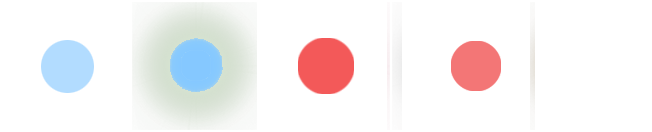
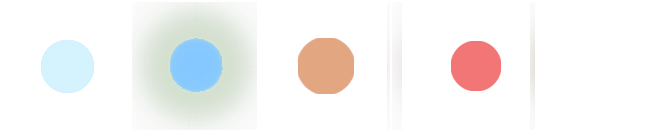
added

Changed region(s): [[0.4601, 0.2727, 0.5521, 0.7273], [0.0613, 0.303, 0.1534, 0.697]]

diff --git a/public/game.js b/public/game.js
@@ -2,7 +2,7 @@
     const config = {
         type: Phaser.WEBGL,
         width: 1020,
-        height: 600,
+        height: 980,
         parent: 'phaser-example',
         backgroundColor: '#1c1917',
         dom: {
@@ -35,6 +35,12 @@
 
         let graphics;
         const curves = [];
+
+        const chosenColors = [];
+
+        let treeTopRed;
+        let treeTopBlue;
+        let sliderValueTop = 5;
         
         function preload() {
             this.load.atlas('flares', 'assets/particles/flares.png', 'assets/particles/flares.json');
@@ -47,43 +53,69 @@
             socket = io();
 
             const posX = 30;
-            const min = -50;
-            const max = 50;
+            const min = -40;
+            const max = 40;
 
             const colors = ['blue', 'red'];
 
             for (let i = 0; i < 20; i++) {
-                //console.log(Phaser.Math.Between(min, max));
                 curves.push(new Phaser.Curves.Spline([ 
-                    60+posX*i + Phaser.Math.Between(min, max), 571, 
-                    100+posX*i+ Phaser.Math.Between(min, max), 410 + Phaser.Math.Between(min, max),
-                    100+posX*i + Phaser.Math.Between(min, max), 255 + Phaser.Math.Between(min, max), 
-                    104+posX*i + Phaser.Math.Between(min, max), 126 + Phaser.Math.Between(min, max), 
-                    101+posX*i, 31]));
+                    100+posX*i + Phaser.Math.Between(min, max), 941, 
+                    100+posX*i+ Phaser.Math.Between(min, max), 821 + Phaser.Math.Between(min, max),
+                    100+posX*i + Phaser.Math.Between(min, max), 719 + Phaser.Math.Between(min, max), 
+                    100+posX*i + Phaser.Math.Between(min, max), 641 + Phaser.Math.Between(min, max), 
+                    100+posX*i, 536])
+                    );
             }
-
-            //const topCurve = [new Phaser.Curves.Spline([ 303, 213+posX*1, 173, 143+posX*1, 53])];
-
 
             const particles = this.add.particles('flares');
             for (let i = 0; i < curves.length; i++) {
+                const thisColor = colors[Phaser.Math.Between(0, 1)];
                 emitters.push(particles.createEmitter({
-                    frame: { frames:[colors[Phaser.Math.Between(0, 1)]], cycle: true },
+                    frame: { frames:[thisColor], cycle: true },
                     scale: .1 ,
                     lifespan: 2000,
                     blendMode: 'NORMAL',
                     emitZone: { type: 'edge', source: curves[i], quantity: 350 },
                     alpha: 1
                 }));
+                chosenColors.push(thisColor);
             }
 
             emitters.forEach(emitter=> {
                 emitter.stop();
             });
 
+            const shape1 = new Phaser.Geom.Rectangle(-350, -250, 900, 450);
+
+            treeTopRed = particles.createEmitter({
+                frame: { frames:[colors[1]], cycle: false },
+                x: 400, y: 300,
+                lifespan: 4000,
+                quantity: 1,
+                scale: 0.2,
+                alpha: { start: 0, end: 1 },
+                blendMode: 'NORMAL',
+                emitZone: { type: 'random', source: shape1 }
+            });
+            treeTopBlue = particles.createEmitter({
+                frame: { frames:[colors[0]], cycle: false },
+                x: 400, y: 300,
+                lifespan: 4000,
+                quantity: 1,
+                scale: 0.2,
+                alpha: { start: 0, end: 1 },
+                blendMode: 'NORMAL',
+                emitZone: { type: 'random', source: shape1 }
+            });
+
+            treeTopRed.stop();
+            treeTopBlue.stop();
+
             // event listeners
             let slider =  document.querySelector(`.slider`);
             slider.addEventListener('change', handleChangeSlider);
+            document.querySelector(`.sliderTop`).addEventListener('change', handleChangeSliderTop);
             document.querySelector(`.start`).addEventListener('click', handleClickButton);
             document.querySelector(`.start-forever`).addEventListener('click', handleClickButtonForever);
         }
@@ -93,6 +125,12 @@
             emitters.forEach(emitter => {
                 emitter.lifespan.propertyValue = sliderValue;
             });
+        }
+
+        function handleChangeSliderTop(e) {
+            console.log(e.target.value);
+            sliderValueTop = e.target.value;
+            treeTopBlue.quantity.propertyValue = sliderValueTop;
         }
 
         function handleClickButton() {
@@ -115,18 +153,31 @@
                 if (emitter.lifespan.propertyValue <= 0) {
                     emitter.stop();
                 } else {
-                    //console.log( parseFloat(`.${life}`));
                     if(life >= 10) {
-                        emitter.alpha.propertyValue = .5* parseFloat(`.${life}`); //lifeSpanProcent * parseFloat(`.${life}`);
+                        emitter.alpha.propertyValue = .5* parseFloat(`.${life}`);
                     } else {
-                        emitter.alpha.propertyValue = .5* parseFloat(`.0${life}`); //lifeSpanProcent * parseFloat(`.${life}`);
+                        emitter.alpha.propertyValue = .5* parseFloat(`.0${life}`);
                     }
                 }
             });
+
+            const quantityEmitter = treeTopBlue.quantity.propertyValue;
+            if (life <= 0) {
+                treeTopBlue.stop();
+            } else {
+                if(life >= 80 && life < 90) {
+                    treeTopBlue.quantity.propertyValue = sliderValueTop * .75;
+                } else if (life < 50 && life > 10) {
+                    treeTopBlue.quantity.propertyValue = sliderValueTop * .5;
+                } else if (life === 99) {
+                    treeTopBlue.quantity.propertyValue = sliderValueTop;
+                } else {
+                    treeTopBlue.quantity.propertyValue = sliderValueTop * .25;
+                }
+            }
         }
 
         function update(time, delta) {
-
             if (emittersStart) {
                 if (lastTime === 0) {
                     lastTime = time;
@@ -150,16 +201,22 @@
                         setTimeout(callback, Phaser.Math.Between(0, 3000)); 
                     });
                     onceEmitters = false;
+
+                    treeTopBlue.start();
                 }
             }
             // life time of emitter
             emitterDies();
 
             graphics.clear();
-            graphics.lineStyle(6, 0xffffff, .25);
-    
-            curves.forEach(emitter => {
-                emitter.draw(graphics);
-            })
+
+            for (let i = 0; i < curves.length; i++) {
+                if(chosenColors[i] === 'red') {
+                    graphics.lineStyle(6, 0xe2a681, .25);
+                } else {
+                    graphics.lineStyle(6, 0xb2dcff, .25);
+                }
+                curves[i].draw(graphics);
+            }
         }
 }

diff --git a/public/index.html b/public/index.html
@@ -11,6 +11,7 @@
 <body>
     <form action="">
         <input type="range" min="1" max="10" value="5" class="slider" id="myRange">   
+        <input type="range" min="1" max="10" value="5" class="sliderTop" id="myRange">   
     </form>
     <button class="start">start Emitters</button>
     <button class="start-forever">start Emitters forever</button>
